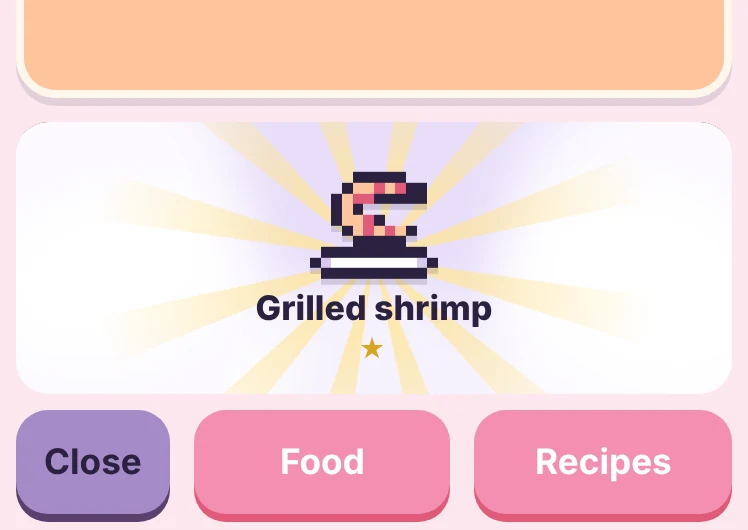
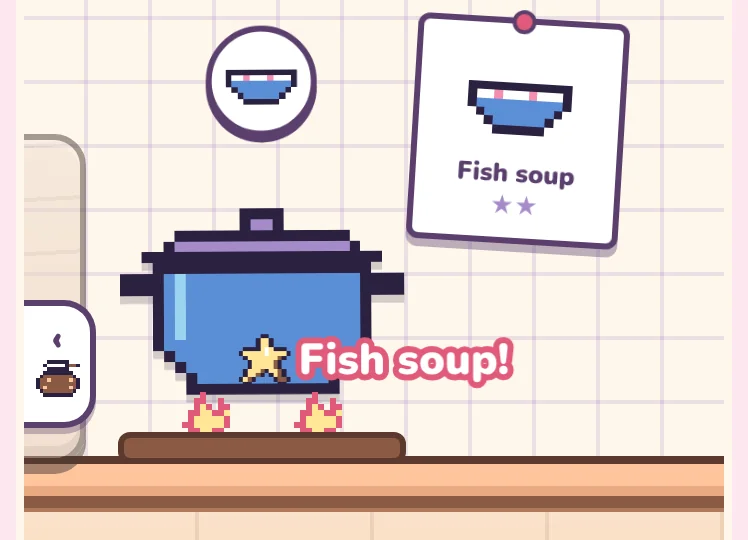
Retake the cooking guide pictures for the new kitchen
The pictures showed the old counter. They now show the stove, the recipe
card, the counter spots with Cook!, and the Recipes panel, and a new
fifth page covers chopping on the board. The words for filling the pot
and the Mushy mess match the new kitchen too.

Claude-Session: https://claude.ai/code/session_01GnCVwvmv7iukbo7aG3eTuN

diff --git a/src/ui/guidePages.ts b/src/ui/guidePages.ts
@@ -40,10 +40,11 @@ export const GUIDE_PICTURES: Record<string, GuidePicture[]> = {
     { segs: [[240, 437], [768, 836]], holes: [[22, 382, 346, 45], [116, 779, 258, 52]], hold: [290, 790] },
   ],
   cooking: [
-    { segs: [[300, 412], [560, 713]], holes: [[26, 336, 63, 63], [282, 327, 82, 82], [299, 572, 61, 61]], tap: [318, 592] },
-    { segs: [[470, 667], [768, 836]], holes: [[30, 496, 330, 52], [30, 554, 330, 52], [16, 776, 358, 52]], tap: [300, 790] },
-    { segs: [[236, 433], [768, 836]], holes: [[96, 300, 198, 112]] },
-    { segs: [[300, 412], [560, 713]], holes: [[26, 336, 148, 63], [280, 329, 86, 77]] },
+    { segs: [[295, 425], [490, 625]], holes: [[30, 563, 61, 61], [32, 345, 232, 62], [272, 333, 86, 86]], tap: [60, 593] },
+    { segs: [[440, 710]], holes: [[30, 526, 330, 52], [30, 584, 330, 52]] },
+    { segs: [[396, 666]], holes: [[111, 408, 56, 56], [127, 561, 135, 30], [211, 402, 112, 119]] },
+    { segs: [[400, 599], [668, 734]], holes: [[211, 402, 112, 119], [32, 673, 148, 62]] },
+    { segs: [[455, 640], [665, 745]], holes: [[94, 680, 170, 48], [272, 661, 86, 86]], tap: [315, 705] },
   ],
   delivery: [
     { segs: [[10, 280]], holes: [[312, 17, 57, 57]], tap: [326, 58] },

diff --git a/src/strings.ts b/src/strings.ts
@@ -773,10 +773,11 @@ export const STRINGS = {
       cooking: {
         name: 'Cooking',
         pages: [
-          { title: 'Fill the pot', text: 'Tap food in your pantry to put it in the pot. Then tap the bowl on the right to cook!' },
+          { title: 'Fill the pot', text: 'Tap Food, then tap what goes in the pot. Once it\'s in, tap Cook!' },
           { title: 'Find secret recipes', text: 'Recipes lists every dish. The ??? ones are secret: the hint shows one thing that goes in.' },
           { title: 'Fresh from the pot', text: (pet: string) => `Feed your dish to ${pet} or pack it for a journey. Each new dish goes in your Recipes list.` },
-          { title: 'Oops, a Mushy mess', text: 'A grey bowl means the mix makes no dish. Cook it anyway for a Mushy mess, then try another mix!' },
+          { title: 'Oops, a Mushy mess', text: 'If the recipe card shows a Mushy mess, the mix makes no dish. Cook it anyway, or try another mix!' },
+          { title: 'Chop on the board', text: 'Swipe to the Board and add something to chop. Tap Chop! in the green: three in a row is a perfect cut!' },
         ],
       },
       delivery: {
